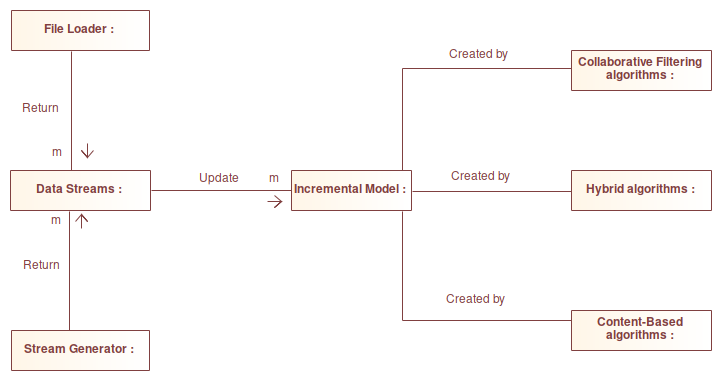
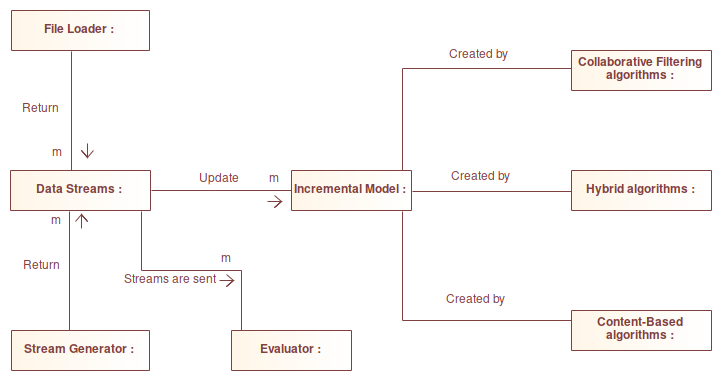
project structure

diff --git a/README.md b/README.md
@@ -1,6 +1,12 @@
 # FEUP-DISS
-Repository to host my dissertation code and files
+
+Dissertation topic on a **Software Library for Stream Based Recommender Systems**.
 
 ## Overall architecture
 
 ![architecture](./images/overall.png)
+
+1. Data Streams can be created through heir own class, or through file loader or stream generator methods.
+2. They are sent to a prequential evaluator, so that we can test the current model before the updating phase.
+3. The model is updated with the data stream.
+4. The model is created through incremental algorithms.
